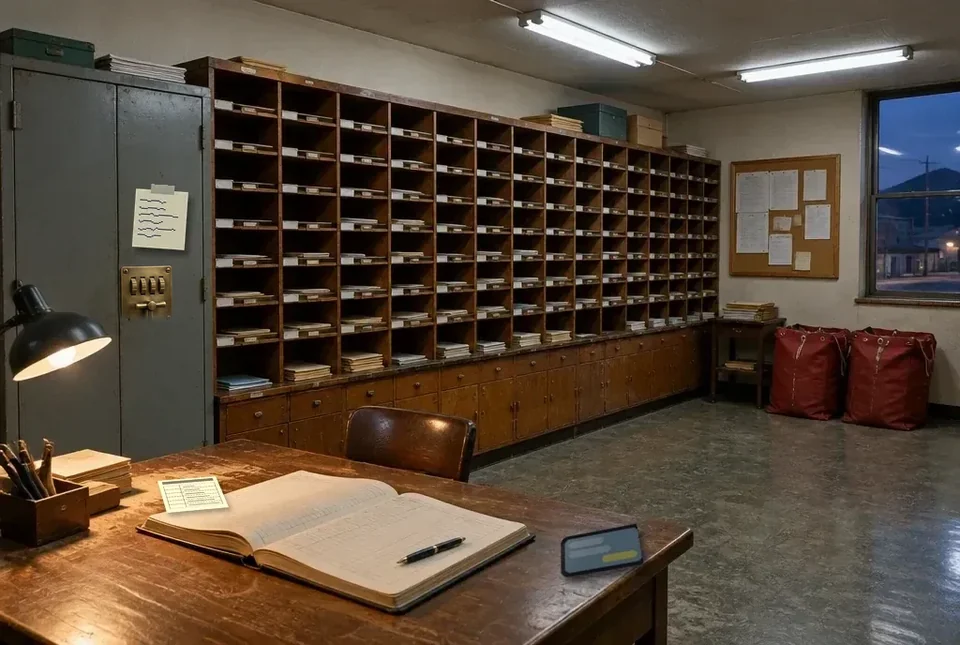
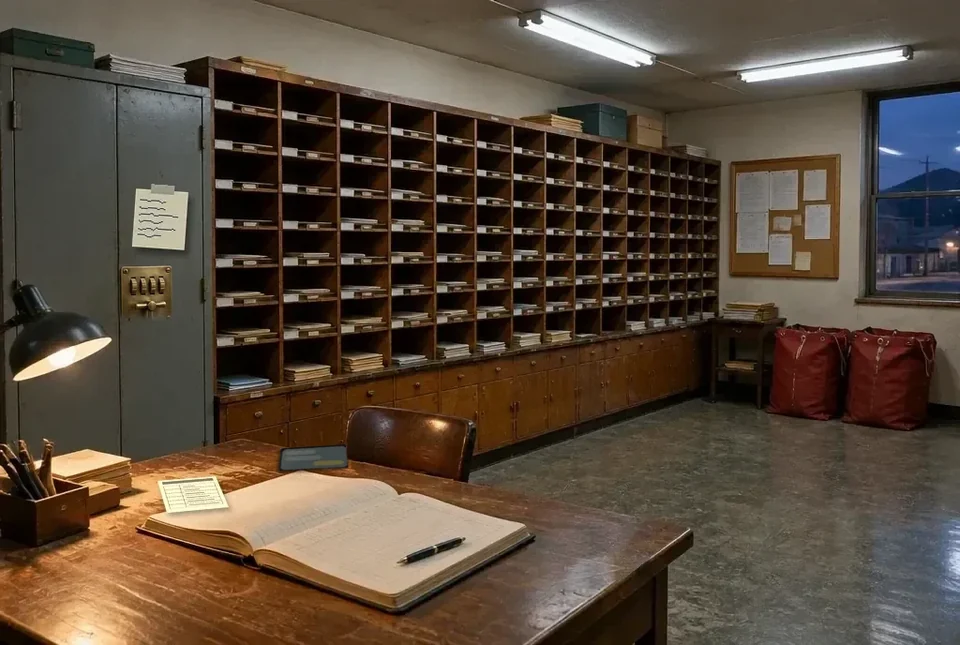
letter 휴대폰 기록 반영: 구분실 휴대폰을 책상 안쪽으로 옮겨 첫 화면에, 보관함 연 뒤 책상에 편지 묶음, 할머니 만난 뒤 대문 한 뼘 열림, 하 항목 손질
- sorting.webp: 책상 오른쪽 끝 휴대폰을 지우고(PIL inpaint+결) 의자 왼쪽 책상 안쪽으로 옮김 → 핫스팟·대장 자리 다시 잼, 대사창에 휴대폰 언급
- 보관함 연 뒤 overlays 로 묶음(표지 그림에서 오려 낸 것) — 다섯 통의 겉봉·신청서 핫스팟을 그 위로
- 골목: 할머니를 만난 뒤 overlays 로 오른쪽 문짝이 안으로 열린 조각, 대사·핫스팟 이름을 '열린 대문 안 …'으로
- 휴게실 사물함 개수 문장, 방향 자물쇠 빈 상태 글, 순로표 클립보드 사진을 머리 그림으로, 대장 표 13px, 구분함 고른 칸 굵게
- 답장 봉투 enterkeyhint·Enter 로 다음 칸/확인, 비춰 보기 버튼 간격, 도장 고리 흐리게
- 우표 깡통: 붙인 우표 46x56·간격 8px·빈칸 '우표', 소인을 금액 아래로, 360 글씨 13px, 가로 화면 두 칸
- 엔딩 첫 문단을 그림(편지 읽는 할머니, 마당 보는 나)에 맞춤 · 편 CSS 640 쿼리에 가로 휴대폰 포함
- walk-v2 letter: 첫 화면 핫스팟, 묶음·대문 덧그림, enterkeyhint, Enter 확인 검사 추가

Claude-Session: https://claude.ai/code/session_01EmFjZY1gpVcrfc1exiuVhy

Changed region(s): [[0.5625, 0.8062, 0.6875, 0.9302], [0.2812, 0.6822, 0.375, 0.7442]]

diff --git a/mystery-site/web/v2/episodes/letter.js b/mystery-site/web/v2/episodes/letter.js
@@ -1,6 +1,9 @@
 // 반송된 편지 — ★3 이야기·자료·장치가 전부 이 파일에 있습니다
 // 규칙: 남의 편지는 뜯지 않는다 모든 단서는 겉봉·대장·공고·순로표에서
 const P = 'assets/v2/letter/';
+// 장면 덧그림(overlays)은 엔진이 S를 넘기지 않아서 지금 상태를 직접 읽는다
+const stateNow = () => { try { return window.MihaejeV2?.state || JSON.parse(localStorage.getItem('mihaeje-v2-letter') || '{}') || {}; } catch { return {}; } };
+const OV_IMG = 'display:block;width:100%;height:100%';
 
 const dialRow = (el, save, d, n) => {
   const row = el('div', 'dials');
@@ -164,16 +167,18 @@ export default {
       id: 'sorting',
       name: '미루우체국 구분실',
       image: P + 'sorting.webp',
-      focusX: 30, // 휴대폰 첫 화면에 보관함·쪽지·대장이 보이게
-      arrive: '형광등 하나가 자꾸 깜박거린다 벽 하나를 다 차지한 구분함, 왼쪽의 회색 반송 보관함, 책상 위에 펼쳐진 반송 대장 38년 동안 아저씨가 매일 아침 서 있던 자리다',
+      focusX: 30, // 휴대폰 첫 화면에 보관함·쪽지·책상(휴대폰·대장)이 다 보이게
+      arrive: '형광등 하나가 자꾸 깜박거린다 벽 하나를 다 차지한 구분함, 왼쪽의 회색 반송 보관함, 책상 위에 펼쳐진 반송 대장과 방금 울린 내 휴대폰 38년 동안 아저씨가 매일 아침 서 있던 자리다',
+      // 보관함을 연 뒤: 꺼낸 묶음(표지 그림의 그 묶음)을 책상 위 신청서 바로 뒤에 올려 둔다 (그림 픽셀 148~262, 468~516)
+      get overlays() { return (stateNow().solved || []).includes('locker') ? [{ x: 13.87, y: 67.15, w: 12.4, h: 8.72, cls: 'le-bundle', html: `<img src="${P}props/sorting-bundle.webp" alt="" style="${OV_IMG}">` }] : []; },
       hotspots: [
-        { id: 'phone', x: 62.5, y: 80, r: 9, label: '봉수 아저씨 문자', kind: 'doc', doc: 'chat' },
+        { id: 'phone', x: 32.6, y: 70.9, r: 8, label: '봉수 아저씨 문자', kind: 'doc', doc: 'chat' }, // 그림 속 휴대폰(책상 안쪽, 의자 왼쪽) 가운데
         { id: 'bmemo', x: 16.4, y: 32, r: 9, label: '보관함 문에 붙은 쪽지', kind: 'doc', doc: 'bmemo' },
         { id: 'locker', x: 14.5, y: 46, r: 9, label: '반송 보관함', kind: 'device', device: 'locker' },
-        { id: 'ledger', x: 33, y: 76, label: '반송 대장', kind: 'doc', doc: 'ledger' },
+        { id: 'ledger', x: 40, y: 78, r: 9, label: '반송 대장', kind: 'doc', doc: 'ledger' },
         { id: 'notice', x: 82, y: 33, label: '게시판의 주소 안내', kind: 'doc', doc: 'notice' },
-        { id: 'envs', x: 9, y: 70, r: 9, label: '다섯 통의 겉봉', kind: 'doc', doc: 'envs', visible: (S) => S.solved.includes('locker') },
-        { id: 'forward', x: 20, y: 77, r: 9, label: '묶음에 끼워진 신청서', kind: 'doc', doc: 'forward', visible: (S) => S.solved.includes('locker') },
+        { id: 'envs', x: 19, y: 70, r: 8, label: '다섯 통의 겉봉', kind: 'doc', doc: 'envs', visible: (S) => S.solved.includes('locker') },
+        { id: 'forward', x: 22.5, y: 76, r: 8, label: '묶음에 끼워진 신청서', kind: 'doc', doc: 'forward', visible: (S) => S.solved.includes('locker') },
         { id: 'rack', x: 50, y: 30, label: '구분함', kind: 'device', device: 'rack', visible: (S) => S.solved.includes('locker') },
         { id: 'hcard', x: 64, y: 24, r: 9, label: '9-1 칸의 쪽지', kind: 'doc', doc: 'hcard', visible: (S) => S.solved.includes('rack') },
       ],
@@ -186,7 +191,7 @@ export default {
       focusX: 62,
       arrive: (S) => (S.solved.includes('staffbox')
         ? '맨 끝 사물함 문이 반쯤 열려 있다 빠진 방향 자물쇠는 고리에 걸어 뒀다 아저씨 우비는 그대로 걸려 있다'
-        : '휴게실엔 아직 아저씨 우비가 걸려 있다 사물함 여섯 칸 중 맨 끝 칸에만 자물쇠가 달려 있고, 이름표 자리는 비어 있다'),
+        : '휴게실엔 아직 아저씨 우비가 걸려 있다 줄지어 선 사물함 중 맨 끝 칸에만 자물쇠가 달려 있고, 이름표 자리는 비어 있다'),
       hotspots: [
         { id: 'route', x: 68, y: 30, label: '못에 걸린 순로표', kind: 'doc', doc: 'route' },
         { id: 'photo', x: 93, y: 19, label: '벽의 단체 사진', kind: 'doc', doc: 'photo' },
@@ -202,20 +207,22 @@ export default {
       focusX: 45,
       // 그림은 약도대로 뒤 골목을 서쪽으로 걸어 들어가며 본 쪽 (빌라가 왼쪽, 길 끝에 초록 대문)
       arrive: (S) => (S.solved.includes('reply')
-        ? '마루 소반 위에 할머니가 과자 깡통을 열어 놓았다 안에 우표가 섞여 있다'
+        ? '초록 대문은 한 뼘 열린 그대로다 문틈 안쪽 마루 소반에 할머니가 과자 깡통을 열어 놓았다 안에 우표가 섞여 있다'
         : S.read.includes('haerin')
-          ? '대문 안 마루에서 할머니가 빈 봉투와 볼펜을 들고 기다린다'
+          ? '초록 대문이 한 뼘 열려 있다 문틈 안쪽 마루에서 할머니가 빈 봉투와 볼펜을 들고 기다린다'
           : S.solved.includes('oldbox')
             ? '녹슨 우편함 뚜껑이 열린 채 흔들린다 초록 대문 안쪽에서 라디오 소리가 작게 난다'
             : '토요일 오후 미루새길 9는 3층짜리 빌라다 그 뒤 골목 끝에 녹슨 초록 대문이 있고, 대문 옆 기둥엔 페인트가 벗겨진 우편함이 하나 붙어 있다'),
+      // 할머니를 만난 뒤엔 초록 대문 오른쪽 문짝이 안으로 한 뼘 열리고 문틈으로 안채 불빛·마루가 보인다 (PIL로 그린 조각, 그림 픽셀 455~535, 365~570)
+      get overlays() { return (stateNow().read || []).includes('haerin') ? [{ x: 44.43, y: 53.05, w: 7.81, h: 29.8, cls: 'le-gate', html: `<img src="${P}props/alley-gate-open.webp" alt="" style="${OV_IMG}">` }] : []; },
       hotspots: [
         { id: 'mailboxes', x: 22, y: 62, label: '빌라 우편함', kind: 'doc', doc: 'mailboxes' },
         { id: 'oldbox', x: 56, y: 62, r: 9, label: '대문 기둥의 옛 우편함', kind: 'device', device: 'oldbox', visible: (S) => !S.solved.includes('oldbox') },
         { id: 'sixth', x: 56, y: 62, r: 9, label: '여섯 번째 봉투', kind: 'doc', doc: 'sixth', visible: (S) => S.solved.includes('oldbox') },
         { id: 'gate', x: 45, y: 66, label: '초록 대문', kind: 'doc', doc: 'haerin', visible: (S) => S.solved.includes('oldbox') && !S.read.includes('haerin') },
         // 대문을 두드려 할머니를 만난 뒤엔 같은 자리에서 할머니가 빈 봉투를, 봉투를 다 쓴 뒤엔 우표 깡통을 내민다
-        { id: 'reply', x: 45, y: 66, label: '할머니가 내민 빈 봉투', kind: 'device', device: 'reply', visible: (S) => S.read.includes('haerin') && !S.solved.includes('reply') },
-        { id: 'stamps', x: 45, y: 66, label: '할머니의 우표 깡통', kind: 'device', device: 'stamps', visible: (S) => S.solved.includes('reply') },
+        { id: 'reply', x: 46, y: 66, label: '열린 대문 안 할머니의 빈 봉투', kind: 'device', device: 'reply', visible: (S) => S.read.includes('haerin') && !S.solved.includes('reply') },
+        { id: 'stamps', x: 46, y: 66, label: '열린 대문 안 할머니의 우표 깡통', kind: 'device', device: 'stamps', visible: (S) => S.solved.includes('reply') },
       ],
     },
   ],
@@ -264,7 +271,7 @@ export default {
     route: {
       title: '못에 걸린 순로표',
       kind: '7구 배달 순서 · 뒷면에 볼펜 약도',
-      html: `<p>종이를 뒤집으니 아저씨가 볼펜으로 그린 약도가 있었다 빨간 점선은 예전 길이다 아래에 작게 「할머니 집 가는 길 · 우체국 문 나서는 방향부터 · 길 하나에 한 번씩 · 위가 북쪽」</p><figure class="prop routemap">${routeMap()}</figure><p>앞면은 배달 순서다</p><div class="paper-table"><p class="pt-head">7구 순로표 (2026년 개정) · 미루새길 구간</p><table><tr><th>순번</th><th>주소</th><th>메모</th></tr>${ROUTE_NOW.map((r) => `<tr><td class="mono">${r[0]}</td><td>${r[1]}</td><td>${r[2]}</td></tr>`).join('')}</table><p class="pt-foot">우체통 수거 월~토 오후 3시 · 일요일·공휴일 수거 없음 그날 넣은 우편은 다음 수거 때 소인을 찍는다<br>규격 보통우편 25g까지 430원 (2023/10/1부터)</p></div><figure class="prop clipphoto"><img src="${P}props/clipboard.webp" alt="못에 걸린 클립보드" decoding="async"></figure>`,
+      html: `<figure class="prop clipphoto head"><img src="${P}props/clipboard.webp" alt="못에 걸린 클립보드" decoding="async"></figure><p>종이를 뒤집으니 아저씨가 볼펜으로 그린 약도가 있었다 빨간 점선은 예전 길이다 아래에 작게 「할머니 집 가는 길 · 우체국 문 나서는 방향부터 · 길 하나에 한 번씩 · 위가 북쪽」</p><figure class="prop routemap">${routeMap()}</figure><p>앞면은 배달 순서다</p><div class="paper-table"><p class="pt-head">7구 순로표 (2026년 개정) · 미루새길 구간</p><table><tr><th>순번</th><th>주소</th><th>메모</th></tr>${ROUTE_NOW.map((r) => `<tr><td class="mono">${r[0]}</td><td>${r[1]}</td><td>${r[2]}</td></tr>`).join('')}</table><p class="pt-foot">우체통 수거 월~토 오후 3시 · 일요일·공휴일 수거 없음 그날 넣은 우편은 다음 수거 때 소인을 찍는다<br>규격 보통우편 25g까지 430원 (2023/10/1부터)</p></div>`,
     },
     photo: {
       title: '벽의 단체 사진',
@@ -326,7 +333,7 @@ export default {
       },
       reveal: {
         title: '0319',
-        text: '손잡이가 내려갔다 맨 아래 칸에 고무줄로 묶은 편지 다섯 통이 있었고, 전부 노란 반송 스티커가 붙어 있었다 묶음 사이엔 접힌 종이 한 장이 끼워져 있었다',
+        text: '손잡이가 내려갔다 맨 아래 칸에 고무줄로 묶은 편지 다섯 통이 있었고, 전부 노란 반송 스티커가 붙어 있었다 묶음 사이엔 접힌 종이 한 장이 끼워져 있었다 묶음째 꺼내 책상 위, 스탠드 옆에 올려 두었다',
         scene: ['받는 곳은 다섯 번 다 미루동 17-4 정해린 님 우체국에서 일하면 한 해에 반송을 수천 통 보는데, 한 사람이 다섯 해 내리 3월 중순마다 보낸 건 처음 봤다 대장엔 올해 3월 줄만 없었다'],
         unlock: null,
       },
@@ -397,7 +404,7 @@ export default {
         const { d, el, save } = ctx;
         const wrap = el('div', 'prop staffphoto'); wrap.innerHTML = `<img src="${P}props/dirlock.webp" alt="이름표 없는 사물함과 방향 자물쇠" decoding="async">`;
         const box = el('div', 'letterlock-wrap');
-        const shown = el('p', 'dir-seq', d.seq.length ? d.seq.map((k) => ARROW[k]).join(' ') : '· · ·');
+        const shown = el('p', 'dir-seq' + (d.seq.length ? '' : ' empty'), d.seq.length ? d.seq.map((k) => ARROW[k]).join(' ') : '아직 밀지 않았다');
         const pad = el('div', 'dir-pad');
         [['U', '위로 밀기'], ['L', '왼쪽으로 밀기'], ['R', '오른쪽으로 밀기'], ['D', '아래로 밀기']].forEach(([k, lab]) => { const b = el('button', 'ctl dir-' + k, ARROW[k]); b.type = 'button'; b.setAttribute('aria-label', lab); b.onclick = () => { if (d.seq.length < 8) d.seq.push(k); save(); }; pad.append(b); });
         const reset = el('button', 'chip', '손 떼고 처음부터'); reset.type = 'button'; reset.onclick = () => { d.seq = []; save(); };
@@ -506,7 +513,7 @@ export default {
           const xs = []; let x = (cv.width - tw) / 2; ws.forEach((w) => { xs.push(x); x += w + gap; });
           g.save(); g.translate(cv.width, 0); g.scale(-1, 1);
           const cx = (xs[3] + xs[4] + ws[4]) / 2, rad = Math.min(cv.height * 0.46, Math.max(px * 0.9, (xs[4] + ws[4] - xs[3]) * 0.7));
-          g.beginPath(); g.arc(cx, cv.height / 2, rad, 0, Math.PI * 2); g.lineWidth = Math.max(2, px * 0.09); g.strokeStyle = show ? 'rgba(30,30,40,.26)' : 'rgba(30,30,40,.1)'; g.stroke();
+          g.beginPath(); g.arc(cx, cv.height / 2, rad, 0, Math.PI * 2); g.lineWidth = Math.max(2, px * 0.09); g.strokeStyle = show ? 'rgba(30,30,40,.17)' : 'rgba(30,30,40,.1)'; g.stroke();
           if (show) {
             g.fillStyle = 'rgba(43,53,112,.72)'; g.textBaseline = 'middle'; g.filter = 'blur(' + (0.5 * dpr).toFixed(1) + 'px)';
             chars.forEach((c, i) => g.fillText(c, xs[i], cv.height / 2));
@@ -541,6 +548,14 @@ export default {
           Object.entries(attrs).forEach(([k, v]) => inp.setAttribute(k, v));
           inp.oninput = () => { d.f[id] = inp.value.trim(); paint(); ctx.status?.(''); }; // 다시 고치기 시작하면 지난 오답 문구는 지운다
           inp.onchange = () => { d.f[id] = inp.value.trim(); };
+          // 휴대폰 키보드의 '다음'은 다음 칸으로, 마지막 칸(받는 사람)의 '완료'는 봉투 다 썼다 버튼과 같게
+          inp.setAttribute('enterkeyhint', id === 'name' ? 'done' : 'next');
+          inp.addEventListener('keydown', (e) => {
+            if (e.key !== 'Enter' || e.isComposing) return;
+            e.preventDefault(); d.f[id] = inp.value.trim();
+            const ins = [...form.querySelectorAll('input.rf-in')], i = ins.indexOf(inp);
+            if (i < ins.length - 1) ins[i + 1].focus(); else { inp.blur(); ctx.commit?.(); }
+          });
           box.append(inp); if (post) box.append(el('span', 'rf-pre', post));
           row.append(box); form.append(row);
         };
@@ -596,7 +611,7 @@ export default {
         const env = el('figure', 'prop lenv reply stamped');
         env.innerHTML = `<img src="${P}props/reply.webp" alt="받는 사람을 다 적은 봉투" decoding="async"><span class="lenv-to written"><b>35217</b><b>수림군 산장면 산장길 31-2, 2층</b><b>오정민 님</b></span>`;
         const corner = el('div', 'st-corner');
-        if (!d.on.length) corner.append(el('span', 'st-empty', '우표 자리'));
+        if (!d.on.length) corner.append(el('span', 'st-empty', '우표'));
         d.on.forEach((id) => {
           const s = STAMPS.find((x) => x.id === id);
           const b = stampEl(s, 'button'); b.type = 'button'; b.setAttribute('aria-label', `붙인 ${s.label} 떼기`);
@@ -643,7 +658,7 @@ export default {
     eyebrow: '2026/11/21 토요일, 해 질 녘',
     title: '돌아오지 않을 봉투',
     paragraphs: [
-      '할머니는 첫 봉투를 뜯고 나서도 한참 감나무만 봤다 그러고는 편지지를 눈 가까이 들고 한 줄씩 읽었다 손으로 넣고 간 여섯 번째 봉투는 맨 나중에 뜯었다',
+      '할머니는 첫 봉투를 뜯어 편지지를 눈 가까이 들고 한 줄씩 읽었다 나는 마루 끝에 앉아 감나무만 봤다 손으로 넣고 간 여섯 번째 봉투는 맨 나중에 뜯었다',
       '“자네 먼저 가 봐 다 읽으면 답장 쓰고, 다 쓰면 대문 틈에 꽂아 둘게”',
       '“월요일 아침에 제가 가지러 올게요”',
       '“봉수 씨한테 말해 줘 불명이라고 찍어 준 거 알고 있었다고 고마웠다고”',

diff --git a/mystery-site/web/v2/engine.css b/mystery-site/web/v2/engine.css
@@ -1731,6 +1731,8 @@ html[data-case="letter"] .v2-paper::before{height:8px;opacity:1}
 .rack-slot.picking{box-shadow:inset 0 0 0 .55cqw var(--lamp)}
 .ledger-table td.hand-cell,.paper-table td.hand-cell{font-family:var(--hand);font-size:17px;color:#2b3570}
 .ledgerphoto,.clipphoto{max-width:520px;margin:0 auto 10px}
+html[data-case="letter"] .clipphoto.head{max-width:200px;margin:0 auto 8px}
+html[data-case="letter"] .dir-seq.empty{font-size:16px;letter-spacing:0;font-weight:600;color:var(--soft)}
 .paper-table.old{opacity:.72;background:#efe6cc}
 @media (max-width:640px){.ledger-table table{font-size:12.5px}.ledger-table td.hand-cell{font-size:15px}.ledger-table th,.ledger-table td{padding:5px 3px}}
 .envtabs{display:flex;flex-wrap:wrap;gap:6px}
@@ -1822,7 +1824,7 @@ html[data-case="letter"] .rf-in{margin:0;background:#fbfaf6;border-color:#bdb8aa
 html[data-case="letter"] .rf-in:focus{outline:2px solid var(--lamp);outline-offset:1px}
 html[data-case="letter"] .rf-in::placeholder{color:#8c887c}
 /* v127: 순로표 뒤 약도 글씨 — 휴대폰에서 1.4배 */
-@media (max-width:640px){html[data-case="letter"] .route-map{--mapk:1.35;--mapmin:4.4px}html[data-case="letter"] .routemap{padding:2px}}
+@media (max-width:640px),(orientation:landscape) and (max-height:500px){html[data-case="letter"] .route-map{--mapk:1.35;--mapmin:4.4px}html[data-case="letter"] .routemap{padding:2px}}
 /* v127: PC에서 자물쇠 사진 옆에 조작을 두어 확인 버튼이 첫 화면에 들어오게 */
 @media (min-width:900px){
   html[data-case="letter"] .letterlock-wrap{display:grid;grid-template-columns:minmax(0,1fr) auto;column-gap:20px;align-items:center;max-width:none}
@@ -1838,7 +1840,8 @@ html[data-case="letter"] .rf-in::placeholder{color:#8c887c}
   html[data-case="letter"] .reply-wrap>.reply-form{grid-column:1/-1}
 }
 /* v127: 휴대폰 글자 13px 아래로 내려가지 않게 (대장 작은 글씨·표 꼬리말·메시지 시각·구분함 이름표 버튼) */
-@media (max-width:640px){
+@media (max-width:640px),(orientation:landscape) and (max-height:500px){
+  html[data-case="letter"] .ledger-compact,html[data-case="letter"] .ledger-compact td,html[data-case="letter"] .ledger-compact th{font-size:13px}
   html[data-case="letter"] .ledger-compact td small{font-size:13px}
   html[data-case="letter"] .paper-table .pt-foot{font-size:13px}
   html[data-case="letter"] .rack-chips{display:grid;grid-template-columns:repeat(4,minmax(0,1fr));gap:5px}
@@ -1867,11 +1870,11 @@ html[data-case="letter"] .lenv-back{left:21%;top:37%;font-size:4.7cqw;line-heigh
 html[data-case="letter"] .rack-slot{transform:none;padding:0;display:block;border-radius:2px}
 html[data-case="letter"] .rack-slot .rack-label{position:absolute;left:var(--cx);top:var(--cy);width:var(--cw);height:var(--ch);display:grid;place-items:center;padding:0;background:none;box-shadow:none;border-radius:0;font-size:1.9cqw;line-height:1;letter-spacing:-.02em;color:#3b2a0e;white-space:nowrap}
 html[data-case="letter"] .rack-slot:focus-visible{box-shadow:inset 0 0 0 .3cqw rgba(226,85,63,.55)}@media (hover:hover){html[data-case="letter"] .rack-slot:hover{box-shadow:inset 0 0 0 .3cqw rgba(226,85,63,.55)}}
-html[data-case="letter"] .rack-slot.picking{box-shadow:inset 0 0 0 .5cqw var(--lamp),0 0 0 .2cqw rgba(0,0,0,.4)}
+html[data-case="letter"] .rack-slot.picking{box-shadow:inset 0 0 0 max(1cqw,4px) var(--lamp),0 0 0 max(.3cqw,2px) rgba(0,0,0,.55);background:rgba(255,196,90,.16)}
 html[data-case="letter"] .rack-slot.picking .rack-label{color:#9e2418}
 @media (prefers-reduced-motion:reduce){html[data-case="letter"] .v2-stage img[src*="sorting"]{animation:none}}
 /* v129 휴대폰 점검: 소반 위 답장 봉투에 적히는 글씨가 9px 남짓이라 키움 (봉투 안쪽 16~89% 안에 들어감) */
-@media (max-width:640px){
+@media (max-width:640px),(orientation:landscape) and (max-height:500px){
   html[data-case="letter"] .lenv.reply .lenv-to.written{left:19%;top:32%;gap:1cqw;font-size:5cqw}
   html[data-case="letter"] .lenv.reply .lenv-to b{min-height:5.6cqw}
   /* 360폭에서 「미루우체국 구분실」 때문에 위 줄 버튼이 다음 줄로 밀려 빈 줄이 생김 → 이름을 접고 버튼은 같은 줄에 */
@@ -1912,7 +1915,7 @@ html[data-case="letter"] .st-s300 .st-art{background:linear-gradient(170deg,#f0d
 html[data-case="letter"] .st-s100 .st-art{background:linear-gradient(170deg,#b9d98a,#6a9a3c 60%,#3d5f22)}
 html[data-case="letter"] .st-s10 .st-art{background:linear-gradient(170deg,#c9c1e8,#7f6fb8 60%,#4a3f7a)}
 html[data-case="letter"] .st-s430 .st-art{background:linear-gradient(170deg,#f5b48a,#d9663a 55%,#8c3a20)}
-html[data-case="letter"] .stamp.used .st-pm{position:absolute;left:28%;top:6%;width:96%;height:62%;pointer-events:none;background:
+html[data-case="letter"] .stamp.used .st-pm{position:absolute;left:22%;top:34%;width:96%;height:62%;pointer-events:none;background:
   radial-gradient(circle at 26% 50%,transparent 0 33%,rgba(25,25,35,.78) 34% 39%,transparent 40%),
   repeating-linear-gradient(180deg,transparent 0 5px,rgba(25,25,35,.72) 5px 7px) 46% 0/60% 100% no-repeat}
 html[data-case="letter"] .st-tray .stamp:focus-visible,html[data-case="letter"] .st-corner .stamp:focus-visible{outline:2px solid #fff;outline-offset:2px}
@@ -1921,8 +1924,22 @@ html[data-case="letter"] .st-tray .stamp:focus-visible,html[data-case="letter"] 
   html[data-case="letter"] .st-lid{width:150px}
   html[data-case="letter"] .st-tray{gap:12px}
   html[data-case="letter"] .st-tray .stamp{width:76px;height:94px;font-size:16px}
-  html[data-case="letter"] .lenv.reply.stamped .lenv-to.written{left:19%;top:38%;font-size:3.9cqw}
-  html[data-case="letter"] .st-corner{right:16%;top:28%}
+  html[data-case="letter"] .lenv.reply.stamped .lenv-to.written{left:19%;top:47%;font-size:max(3.9cqw,13px)}
+  html[data-case="letter"] .st-corner{right:16%;top:30%;gap:8px}
+  html[data-case="letter"] .st-corner .stamp{width:46px;height:56px;font-size:14px}
+  html[data-case="letter"] .st-corner .st-empty{width:46px;height:56px;font-size:13px;border-width:1.5px}
+  html[data-case="letter"] .reply-wrap .bl-hold{margin-top:14px}
+}
+/* 휴대폰 가로: 봉투(왼쪽)와 깡통(오른쪽)을 한 화면에 — 붙이고 확인하느라 위아래로 오가지 않게 */
+@media (orientation:landscape) and (max-height:500px){
+  html[data-case="letter"] .stamp-wrap{grid-template-columns:minmax(0,1fr) minmax(0,1fr);max-width:none;align-items:start;column-gap:14px}
+  html[data-case="letter"] .stamp-wrap>.lenv{grid-column:1;grid-row:1}
+  html[data-case="letter"] .stamp-wrap>.st-sum{grid-column:1;grid-row:2}
+  html[data-case="letter"] .stamp-wrap>.st-tin{grid-column:2;grid-row:1/span 2;grid-template-columns:104px minmax(0,1fr);justify-items:stretch;gap:8px;padding:8px}
+  html[data-case="letter"] .st-lid{width:104px}
+  html[data-case="letter"] .st-lid span{font-size:17px;padding:4px 6px}
+  html[data-case="letter"] .st-tray{gap:8px}
+  html[data-case="letter"] .st-tray .stamp{width:58px;height:72px;font-size:14px}
 }
 
 /* 404호의 불빛: 철거 현장 · 락카 빨강 · 비상등 */
